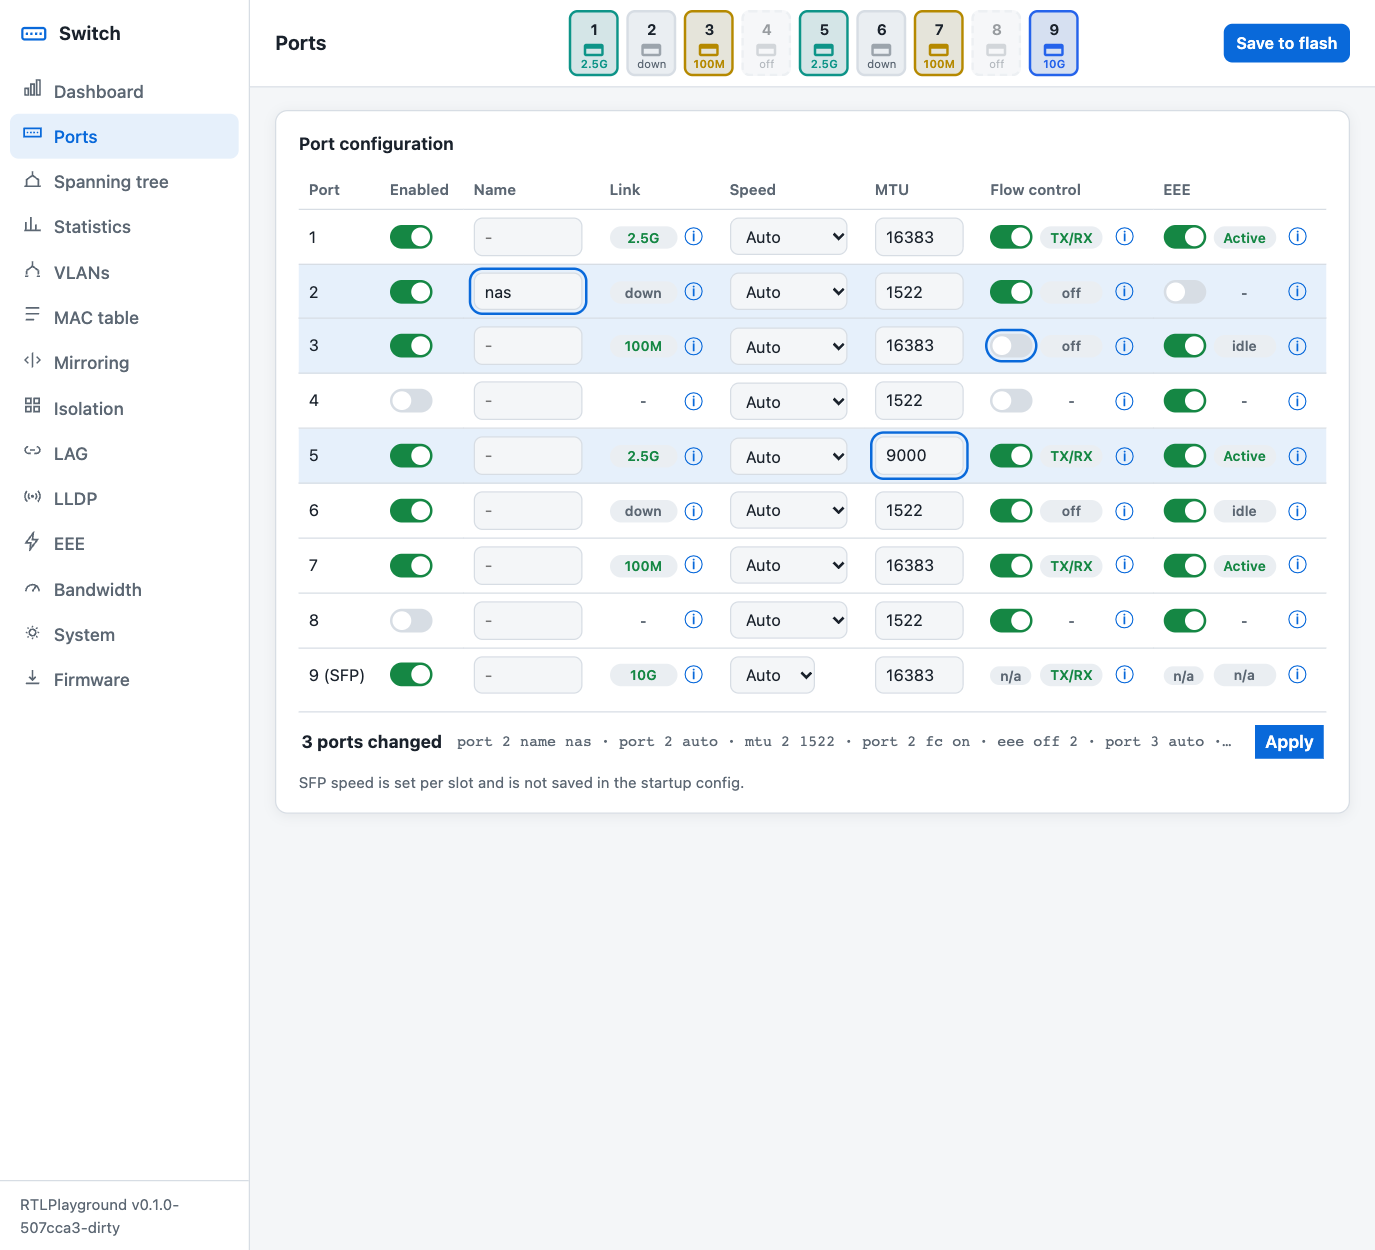
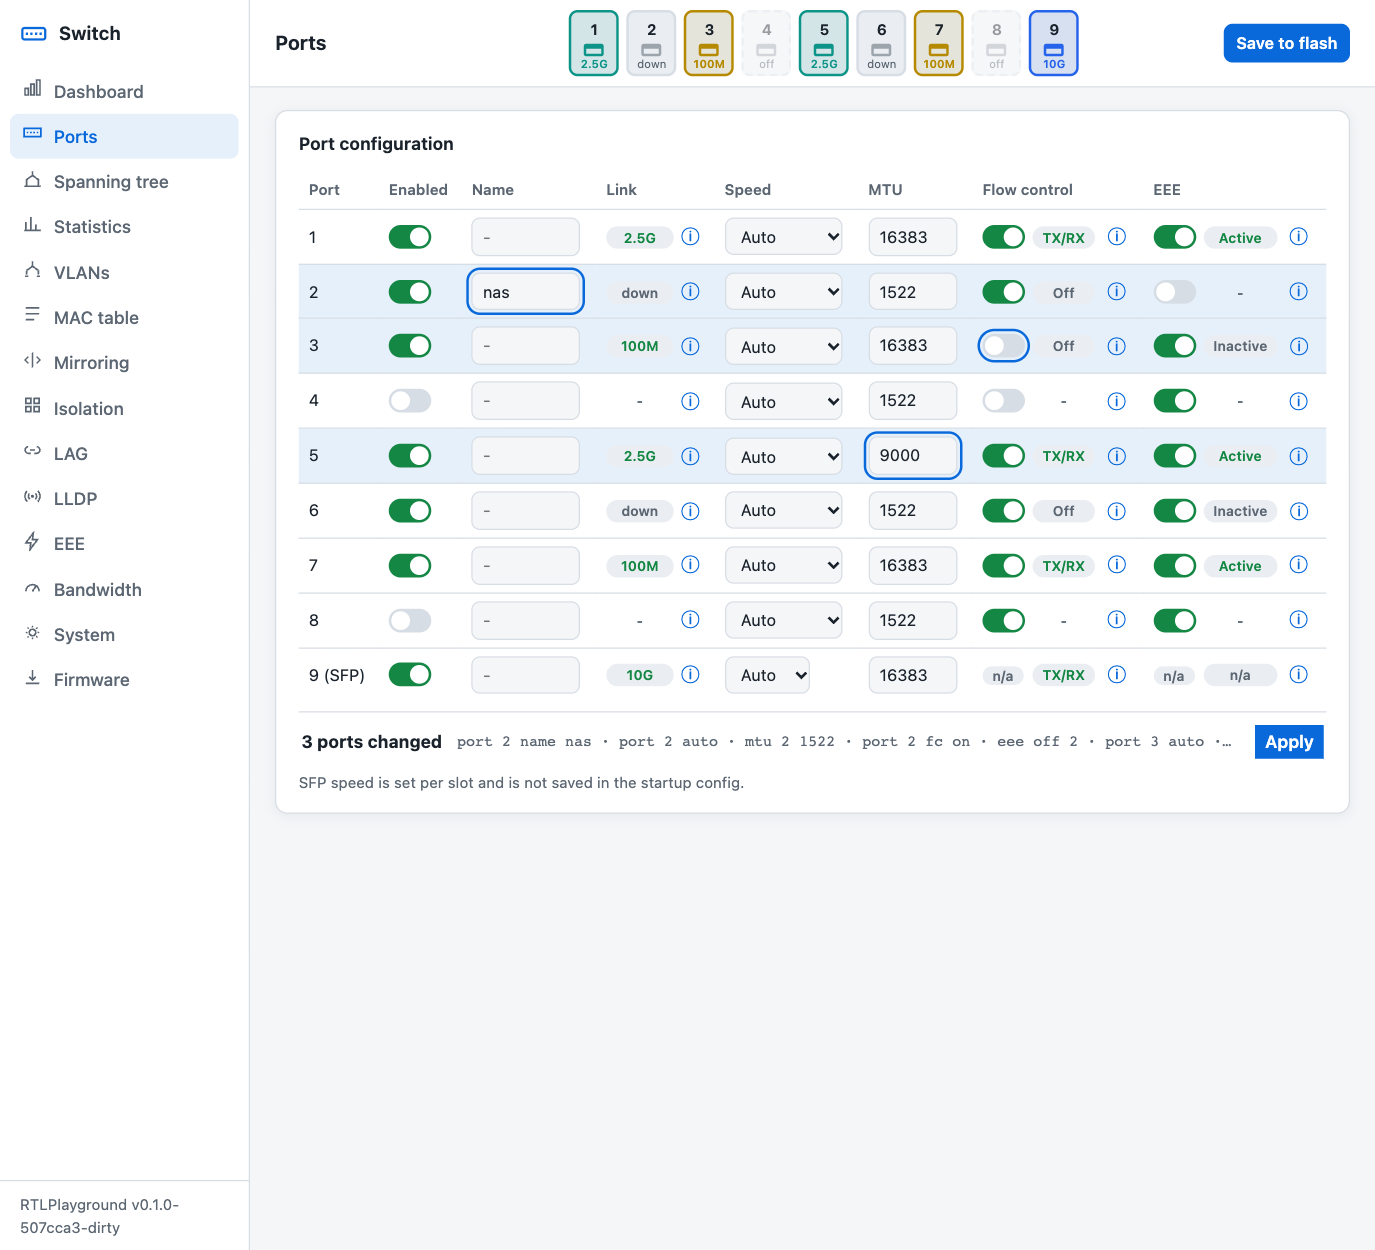
Mock-up J: Active/Inactive for EEE, Off for flow control

diff --git a/html/mockup.js b/html/mockup.js
@@ -16,10 +16,12 @@ function sw(on,dis){
   l.firstChild.checked=!!on;if(dis)l.firstChild.disabled=true;
   return l;
 }
-// "-" = port or feature switched off; "off"/"idle" = switched on but not in use on this link
+// "-" = port or feature switched off; "Off"/"Inactive" = switched on but not in use on this link
 function dash(){return'<span class="badge" style="background:none">-</span>'}
-function fcNeg(p){var f=FC[p.portNum],n=f>>4&3;return!p.enabled||(!p.isSFP&&!(f&1))?dash():n?badge(["","TX","RX","TX/RX"][n],"ok"):badge(t("c_off"))}
-function eeeSt(p){var e=EEE[p.portNum];return p.isSFP?badge(t("e_na")):!p.enabled||!parseInt(e.adv,2)?dash():e.active?badge(t("e_active"),"ok"):badge(t("e_idle"))}
+// Paired labels share capitalisation: Active/Inactive for EEE, Off when flow control negotiated no pause
+LANG.en.e_inactive="Inactive";LANG.de.e_inactive="Inaktiv";LANG.en.fc_off="Off";LANG.de.fc_off="Aus";
+function fcNeg(p){var f=FC[p.portNum],n=f>>4&3;return!p.enabled||(!p.isSFP&&!(f&1))?dash():n?badge(["","TX","RX","TX/RX"][n],"ok"):badge(t("fc_off"))}
+function eeeSt(p){var e=EEE[p.portNum];return p.isSFP?badge(t("e_na")):!p.enabled||!parseInt(e.adv,2)?dash():e.active?badge(t("e_active"),"ok"):badge(t("e_inactive"))}
 function cellWith(tr,kids){var c=tr.insertCell();c.style.whiteSpace="nowrap";kids.forEach(function(k){typeof k==="string"?c.insertAdjacentHTML("beforeend",k):c.appendChild(k)});return c}
 
 function baseRow(tb,p,opt){
@@ -402,7 +404,7 @@ function jControls(p){
 // Every status badge in a column is as wide as the widest label that column can show in the current
 // language, so the ⓘ that follows lines up without right-aligning it
 function fitBadges(){
-  var sets={fitlink:LINKS.slice(1).concat([t("c_off"),t("c_down")]),fitfc:["TX","RX","TX/RX",t("c_off"),t("e_na")],fiteee:[t("e_active"),t("e_idle"),t("e_na")]};
+  var sets={fitlink:LINKS.slice(1).concat([t("c_off"),t("c_down")]),fitfc:["TX","RX","TX/RX",t("fc_off"),t("e_na")],fiteee:[t("e_active"),t("e_inactive"),t("e_na")]};
   var probe=h("div",{style:"position:absolute;visibility:hidden"});document.body.appendChild(probe);
   var css="";
   for(var k in sets){
